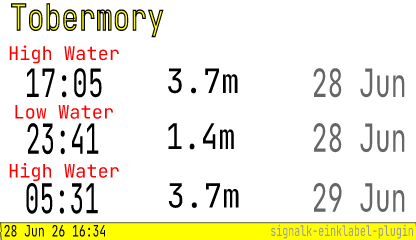
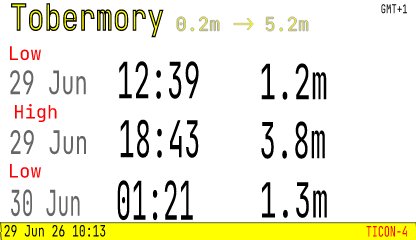
new ver

diff --git a/src/render/formatters.test.ts b/src/render/formatters.test.ts
@@ -1,7 +1,7 @@
 import test from 'node:test';
 import assert from 'node:assert/strict';
 import { DateTime } from 'luxon';
-import { applyFormat, formatDisplayUnits } from './formatters';
+import { applyFormat, formatDisplayUnits, resolveLocalZoneAbbreviation } from './formatters';
 import { TemplateContext } from './types';
 
 test('formatDisplayUnits', async (t) => {
@@ -74,5 +74,23 @@ test('applyFormat', async (t) => {
 
   await t.test('throws for an unknown format name', () => {
     assert.throws(() => applyFormat('nope', 1, context, undefined), /unknown format "nope"/);
+  });
+});
+
+test('resolveLocalZoneAbbreviation', async (t) => {
+  await t.test('resolves a short zone name for an explicit timezoneRegion', () => {
+    const context: TemplateContext = { signalk: { self: { environment: { time: { timezoneRegion: 'Europe/London' } } } } };
+    const expected = new Intl.DateTimeFormat(undefined, { timeZone: 'Europe/London', timeZoneName: 'short' })
+      .formatToParts(new Date())
+      .find((p) => p.type === 'timeZoneName')?.value;
+    assert.equal(resolveLocalZoneAbbreviation(context), expected);
+  });
+
+  await t.test('falls back to the host machine\'s own timezone when there is no timezoneRegion', () => {
+    const hostZone = Intl.DateTimeFormat().resolvedOptions().timeZone;
+    const expected = new Intl.DateTimeFormat(undefined, { timeZone: hostZone, timeZoneName: 'short' })
+      .formatToParts(new Date())
+      .find((p) => p.type === 'timeZoneName')?.value;
+    assert.equal(resolveLocalZoneAbbreviation({}), expected);
   });
 });

diff --git a/CHANGELOG.md b/CHANGELOG.md
@@ -1,7 +1,8 @@
 # 0.4.3
 - Fixed datetime values when running from plugin were blank while CLI was fine
 - Added an example Resources API output from signalk-tides plugin
-- Relaid out the example tide clock
+- Relaid out the example tide clock, adding the tidal range (LAT to HAT) and the source of tide data
+- Alternative source of time zone info, `source=einklabel,path=local_zone`
 # 0.4.2
 - Fix High/Low display for tide clock template
 - Fix last repaint time for display being hour out